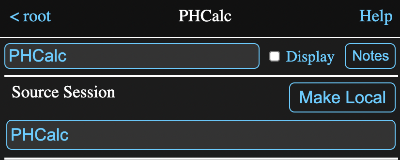
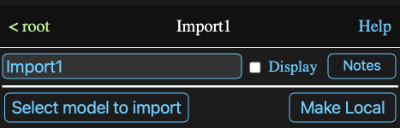
updated the help for imported models and version number for PWA

diff --git a/help/importedmodel.html b/help/importedmodel.html
@@ -6,14 +6,14 @@
 		<script type="text/javascript" src="help.js"></script>
 		<script type="text/javascript">
 			window.onload = () => {
-				rtSetupHeading('Model',{
+				rtSetupHeading('Imported Model',{
 					overview: 'Overview',
 					importing: 'Importing',
 					parameters: 'Formula Parameters',
 				});
 			};			
 		</script>	
-		<title>Model</title>
+		<title>Imported Model</title>
 	</head>
 	<body>
 		<div id="page">
@@ -62,8 +62,11 @@
 				</p>
 				<img src="imported.png" alt="Source Session Section">
 				<p>
-					The name of the session whose root model is the template should be entered into
-					the input field (PHCalc in the example).
+					Clicking on the "Select model to import" button will open a menu that lists
+					all the stored sessions.  Selecting one will cause the that session
+					to be imported into imported model tool. If a session has already been selected,
+					its path will be displayed on the button. Clicking on the button and selecting a different
+					session will cause the imported model to be updated to the new session.
 				</p>
 				<p>
 					The <b>Make Local</b> button changes the imported model to a normal

diff --git a/PWAServiceWorker.js b/PWAServiceWorker.js
@@ -1,5 +1,5 @@
 // The version of the cache.
-const VERSION = "2025.03.20b";
+const VERSION = "2025.04.17";
 
 // The name of the cache
 const CACHE_NAME = `mathminion-${VERSION}`;
